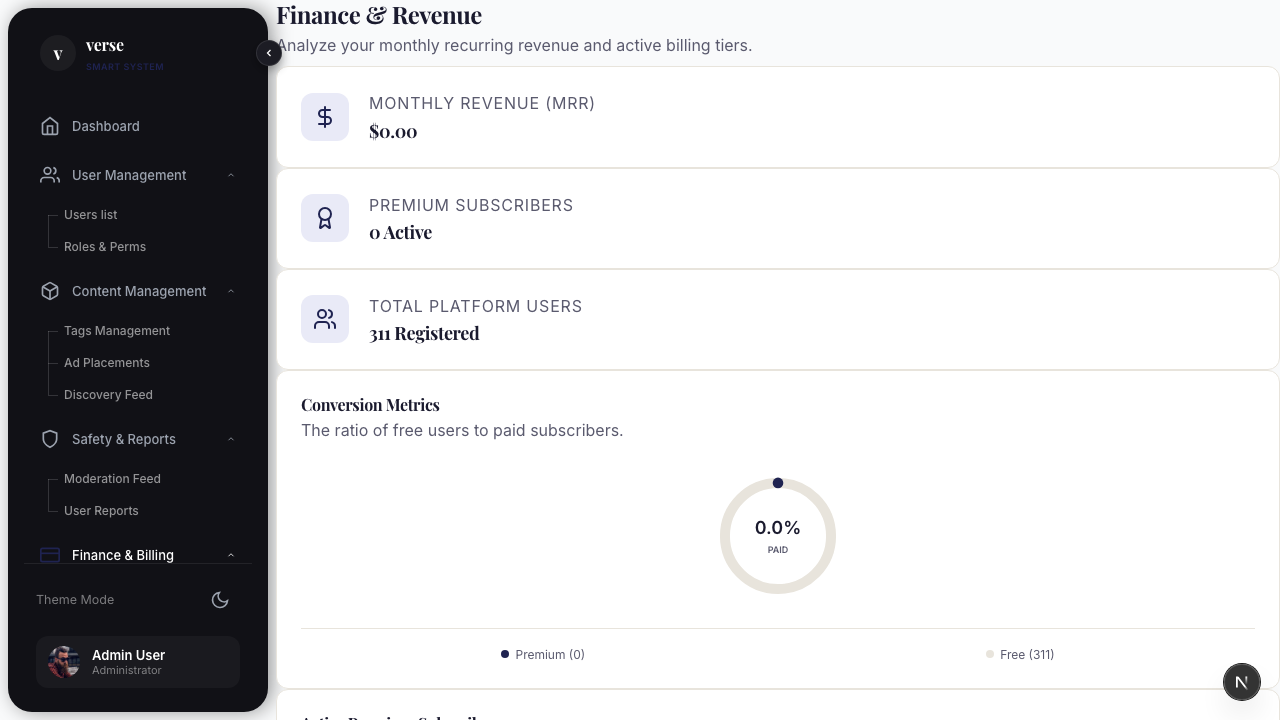
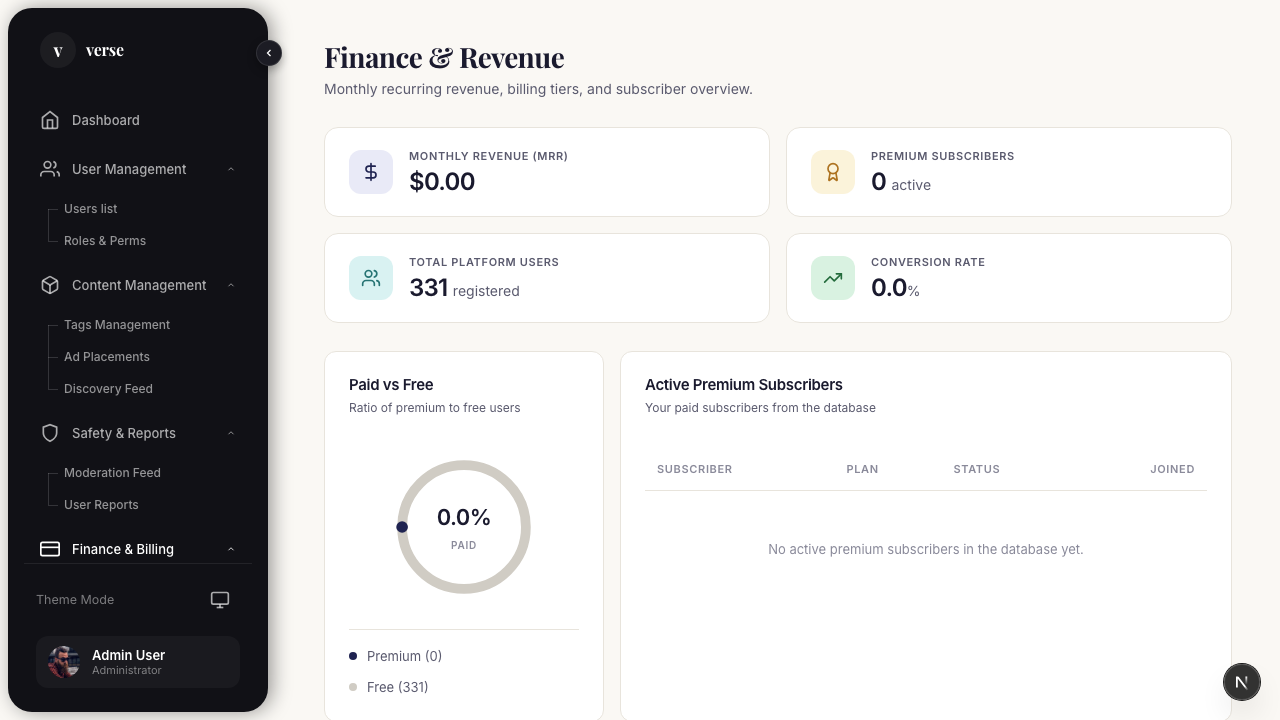
chore: update todo list and format BasicInfoForm

diff --git a/app/admin/account/basic-info/BasicInfoForm.jsx b/app/admin/account/basic-info/BasicInfoForm.jsx
@@ -8,7 +8,7 @@ import { useToast } from "@/components/ToastProvider"
 export default function BasicInfoForm({ user }) {
   const [isPending, startTransition] = useTransition()
   const { showToast } = useToast()
-  
+
   const coverRef = useRef(null)
   const avatarRef = useRef(null)
 
@@ -53,7 +53,7 @@ export default function BasicInfoForm({ user }) {
     }
   }
 
-  const joinDate = user.createdAt 
+  const joinDate = user.createdAt
     ? new Date(user.createdAt).toLocaleDateString('en-US', { month: 'long', day: 'numeric', year: 'numeric' })
     : 'Unknown'
 
@@ -66,18 +66,18 @@ export default function BasicInfoForm({ user }) {
       {/* My Profile Header Card (Clean Design with Cover) */}
       <h2 className="font-semibold text-lg" style={{ marginBottom: '16px' }}>My Profile</h2>
       <div className="card" style={{ padding: 0, backgroundColor: 'var(--bg-card)', border: '1px solid var(--border-tertiary)', borderRadius: '12px', overflow: 'hidden' }}>
-        
+
         {/* Restored Cover Image Section */}
         <div style={{ height: '140px', position: 'relative', overflow: 'hidden', backgroundColor: 'var(--bg-secondary)' }}>
-           {user.coverImage ? (
-             <img src={user.coverImage} alt="Cover" style={{ width: '100%', height: '100%', objectFit: 'cover' }} />
-           ) : (
-             <img src="https://images.unsplash.com/photo-1557683316-973673baf926?q=80&w=2000&auto=format&fit=crop" style={{ width: '100%', height: '100%', objectFit: 'cover', opacity: 0.7 }} alt="Default Cover" />
-           )}
-           <button type="button" onClick={handleCoverClick} className="btn btn-ghost" style={{ position: 'absolute', top: '16px', right: '16px', backgroundColor: 'var(--bg-card)', color: 'var(--text-primary)', border: '1px solid var(--border-secondary)', padding: '6px 12px', fontSize: '13px' }}>
-             <Camera size={14} className="inline mr-2" />
-             Edit Cover
-           </button>
+          {user.coverImage ? (
+            <img src={user.coverImage} alt="Cover" style={{ width: '100%', height: '100%', objectFit: 'cover' }} />
+          ) : (
+            <img src="https://images.unsplash.com/photo-1557683316-973673baf926?q=80&w=2000&auto=format&fit=crop" style={{ width: '100%', height: '100%', objectFit: 'cover', opacity: 0.7 }} alt="Default Cover" />
+          )}
+          <button type="button" onClick={handleCoverClick} className="btn btn-ghost" style={{ position: 'absolute', top: '16px', right: '16px', backgroundColor: 'var(--bg-card)', color: 'var(--text-primary)', border: '1px solid var(--border-secondary)', padding: '6px 12px', fontSize: '13px' }}>
+            <Camera size={14} className="inline mr-2" />
+            Edit Cover
+          </button>
         </div>
 
         <div style={{ padding: '24px', display: 'flex', alignItems: 'flex-start', justifyContent: 'space-between', marginTop: '-48px', position: 'relative' }}>
@@ -85,14 +85,14 @@ export default function BasicInfoForm({ user }) {
             {/* Avatar */}
             <div style={{ width: '96px', height: '96px', borderRadius: '50%', backgroundColor: 'var(--bg-primary)', border: '4px solid var(--bg-card)', overflow: 'hidden', position: 'relative', flexShrink: 0 }}>
               {user.image ? (
-                 <img src={user.image} alt="Avatar" style={{ width: '100%', height: '100%', objectFit: 'cover' }} />
-               ) : (
-                 <div style={{ width: '100%', height: '100%', display: 'flex', alignItems: 'center', justifyContent: 'center', backgroundColor: 'var(--accent-soft)', color: 'var(--accent)', fontSize: '32px', fontWeight: 600 }}>
-                   {user.name?.[0] || user.username?.[0] || "U"}
-                 </div>
-               )}
+                <img src={user.image} alt="Avatar" style={{ width: '100%', height: '100%', objectFit: 'cover' }} />
+              ) : (
+                <div style={{ width: '100%', height: '100%', display: 'flex', alignItems: 'center', justifyContent: 'center', backgroundColor: 'var(--accent-soft)', color: 'var(--accent)', fontSize: '32px', fontWeight: 600 }}>
+                  {user.name?.[0] || user.username?.[0] || "U"}
+                </div>
+              )}
             </div>
-            
+
             {/* Info */}
             <div style={{ paddingBottom: '8px' }}>
               <h3 style={{ fontSize: '20px', fontWeight: 600, color: 'var(--text-primary)', margin: 0 }}>
@@ -112,11 +112,10 @@ export default function BasicInfoForm({ user }) {
           </div>
         </div>
 
-        {/* Restored Profile Completion Section */}
         <div style={{ padding: '0 24px 24px 24px' }}>
           <div style={{ borderTop: '1px solid var(--border-tertiary)', paddingTop: '20px' }}>
             <div className="flex justify-between" style={{ marginBottom: '8px' }}>
-              <span style={{ fontSize: '14px', color: 'var(--text-secondary)' }}>Profile Completion</span>
+              <span style={{ fontSize: '14px', color: 'var(--text-secondary)' }}>Profile Completion </span>
               <span style={{ fontSize: '14px', color: 'var(--text-primary)', fontWeight: 500 }}>50%</span>
             </div>
             <div style={{ height: '8px', backgroundColor: 'var(--border-tertiary)', borderRadius: '9999px', overflow: 'hidden' }}>
@@ -139,7 +138,7 @@ export default function BasicInfoForm({ user }) {
         })
       }}>
         <div className="card" style={{ padding: '24px', backgroundColor: 'var(--bg-card)', border: '1px solid var(--border-tertiary)', borderRadius: '12px' }}>
-          
+
           <div className="grid md:grid-cols-2 gap-6" style={{ marginBottom: '24px' }}>
             <div className="form-group">
               <label className="form-label" style={{ color: 'var(--text-secondary)' }}>First Name</label>
@@ -150,7 +149,7 @@ export default function BasicInfoForm({ user }) {
               <input type="text" name="lastName" defaultValue={user.lastName || ''} placeholder="Last Name" className="input bg-transparent border-none p-0 text-base font-medium shadow-none focus:ring-0 focus:border-none" style={{ color: 'var(--text-primary)' }} />
             </div>
           </div>
-          
+
           <div className="grid md:grid-cols-2 gap-6" style={{ marginBottom: '24px' }}>
             <div className="form-group">
               <label className="form-label" style={{ color: 'var(--text-secondary)' }}>Job Title</label>
@@ -161,7 +160,7 @@ export default function BasicInfoForm({ user }) {
               <input type="text" name="location" defaultValue={user.location || ''} placeholder="Location" className="input bg-transparent border-none p-0 text-base font-medium shadow-none focus:ring-0 focus:border-none" style={{ color: 'var(--text-primary)' }} />
             </div>
           </div>
-          
+
           <div className="form-group" style={{ marginBottom: '24px' }}>
             <label className="form-label" style={{ color: 'var(--text-secondary)' }}>Bio</label>
             <textarea name="bio" defaultValue={user.bio || ''} placeholder="Bio" rows={3} className="input bg-transparent border-none p-0 text-base font-medium shadow-none focus:ring-0 focus:border-none" style={{ resize: 'vertical', color: 'var(--text-primary)' }}></textarea>

diff --git a/todo.md b/todo.md
@@ -1,0 +1,32 @@
+ADMIN route pages(/admin)
+ -tag management
+  - native browser alerts
+  - add tag
+  - pagination
+  - fetch per page
+  - optimistic
+
+ - ad placement
+  - New compaign
+  - manage active compagns
+  - pause compaign etc
+  - manage virality ie push a post or author or tag to top 
+
+ - moderation
+  - add word
+  - create rules
+  - change models
+  - pause model
+
+ - admin home
+  - options and setting on cards(stat cards) that arent functioning
+  - dead link on the timer card
+  - cta that dont work ie send broadcast
+
+ - missing view all on summary datatables in home page
+  - missing featured history (featured pieces, when who)
+  - featured authors
+  - all banned pieces/authors
+  - author and pieces can be banned separately
+
+- ROles are not used consistently (role page is for creating roles), however the roles used in many places seem hardcoded(ie admin, user, moderator). need to remove them from logic and use the roles table.